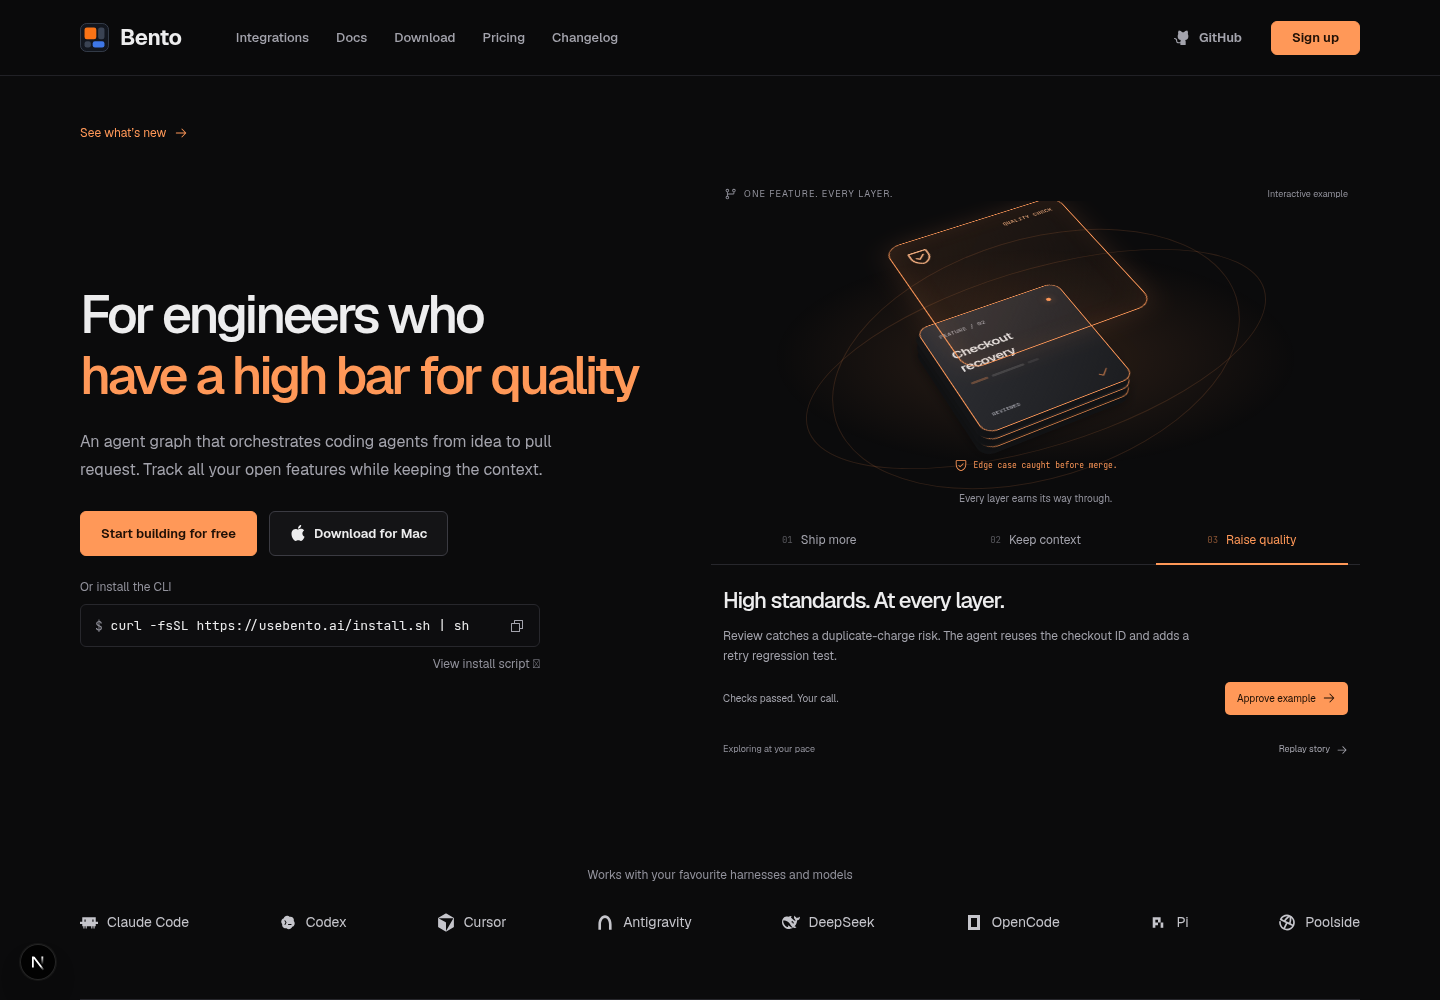
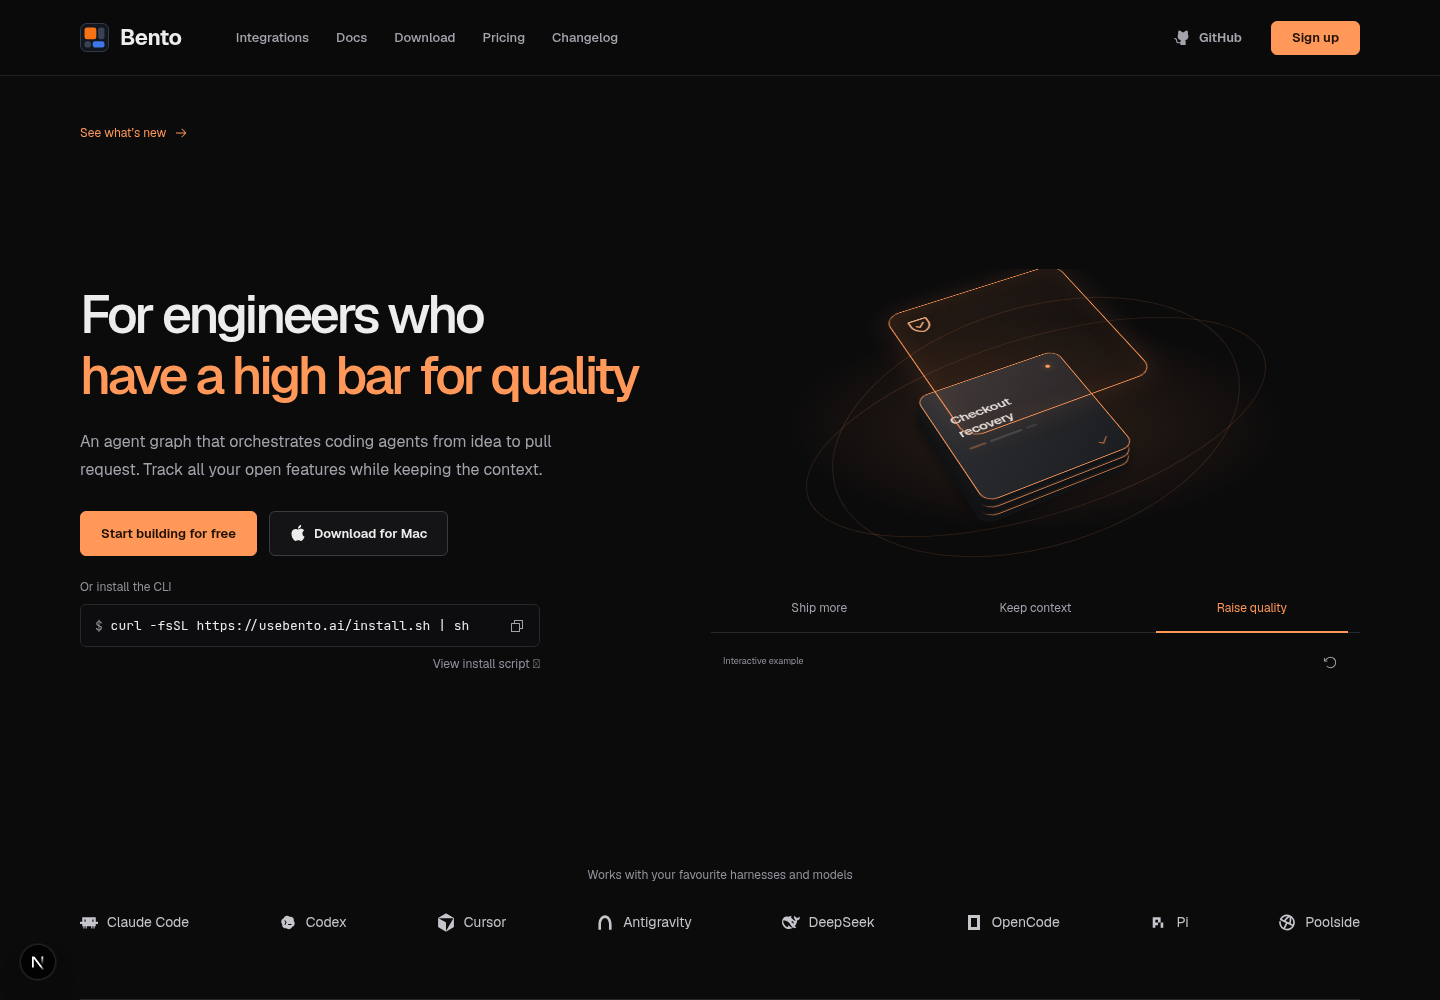
Reduce hero copy so the 3D graphics lead

diff --git a/app/marketing.css b/app/marketing.css
@@ -785,8 +785,6 @@ body:has(.marketing-page) {
 /* A shared 3D sculpture transforms with the headline. */
 @media (min-width: 801px) { .m-hero-heading:has(.hero-story-demo) { padding-block: 24px; } }
 .marketing-page .hero-story-demo { --slab: #1f2024; --slab-edge: #37383e; --slab-ink: #ededee; border: 0; background: transparent; box-shadow: none; overflow: visible; font-size: 12px; }
-.story-topbar { display: flex; align-items: center; justify-content: space-between; gap: 10px; color: var(--text-faint); font-size: 9px; padding-inline: 12px; }
-.story-topbar > span:first-child { display: flex; align-items: center; gap: 7px; letter-spacing: .12em; }
 .feature-stage { position: relative; height: 315px; perspective: 1100px; isolation: isolate; overflow: hidden; }
 .feature-stage::before { content: ""; position: absolute; inset: 12% 6%; background: radial-gradient(ellipse, color-mix(in srgb, var(--brand) 14%, transparent), transparent 65%); }
 .feature-orbit { position: absolute; width: 420px; height: 240px; left: 50%; top: 38px; border: 1px solid color-mix(in srgb, var(--brand) 14%, transparent); border-radius: 50%; transform: translateX(-50%) rotate(-17deg); }
@@ -801,7 +799,7 @@ body:has(.marketing-page) {
 .feature-slab-base { transform: translateZ(-22px); background: #29221d; border-color: #5a4030; }
 .feature-slab-middle { transform: translateZ(-11px); background: #242427; }
 .feature-slab-top { transform: translateZ(0); background: linear-gradient(135deg, #303136, #1c1d20); }
-.feature-card-top, .feature-card-bottom { display: flex; align-items: center; justify-content: space-between; color: #b6b6bf; font: 7px var(--font-jetbrains-mono), monospace; }
+.feature-card-top, .feature-card-bottom { display: flex; align-items: center; justify-content: flex-end; color: #b6b6bf; font: 7px var(--font-jetbrains-mono), monospace; }
 .feature-card-top i { width: 5px; height: 5px; border-radius: 50%; background: #ff9858; box-shadow: 0 0 8px #ff985880; }
 .feature-slab-top strong { display: block; max-width: 100px; margin-top: 16px; font-size: 15px; font-weight: 550; line-height: 1.3; letter-spacing: -.03em; }
 .feature-card-lines { display: flex; gap: 4px; margin-top: 12px; }
@@ -819,57 +817,24 @@ body:has(.marketing-page) {
 .hero-story-demo[data-chapter="2"] .feature-cluster-1 { transform: translate3d(-20px, 10px, 12px); }
 .hero-story-demo[data-chapter="2"] .feature-cluster-1 .feature-slab { border-color: #ff9858; }
 .feature-scan { position: absolute; width: 188px; height: 188px; top: -98px; left: -114px; border: 1px solid #ff9858; border-radius: 17px; display: flex; justify-content: space-between; align-items: flex-start; padding: 13px; color: #ffb786; background: linear-gradient(135deg, #ff98581a, #ff985808); box-shadow: 0 0 30px #ff985822, inset 0 0 30px #ff985811; transform: translateZ(100px); opacity: 0; transition: opacity 600ms; }
-.feature-scan span { font: 7px var(--font-jetbrains-mono), monospace; }
 .hero-story-demo[data-chapter="2"] .feature-scan { opacity: 1; }
-.feature-callout { position: absolute; opacity: 0; transition: opacity 500ms; color: var(--brand); font: 8px var(--font-jetbrains-mono), monospace; }
-.feature-callout-context { right: 7%; top: 72px; display: grid; gap: 41px; }
-.feature-callout-context span { position: relative; }
-.feature-callout-context span::before { content: ""; position: absolute; right: calc(100% + 8px); top: 4px; width: 28px; height: 1px; background: var(--brand); opacity: .4; }
-.feature-callout-quality { left: 50%; bottom: 44px; transform: translateX(-50%); display: flex; align-items: center; gap: 6px; white-space: nowrap; }
-.hero-story-demo[data-chapter="1"] .feature-callout-context, .hero-story-demo[data-chapter="2"] .feature-callout-quality { opacity: 1; }
-.feature-stage-caption { position: absolute; bottom: 10px; width: 100%; text-align: center; color: var(--text-faint); font-size: 10px; }
 @media (prefers-reduced-motion: no-preference) {
   .hero-story-demo[data-chapter="0"] .feature-slab-top { animation: feature-float 3s ease-in-out infinite alternate; }
   .hero-story-demo[data-chapter="0"] .feature-cluster-0 .feature-slab-top { animation-delay: -.8s; }
   .hero-story-demo[data-chapter="0"] .feature-cluster-2 .feature-slab-top { animation-delay: -1.6s; }
-  .hero-story-demo[data-chapter="2"][data-approved="false"] .feature-scan { animation: feature-inspect 2.8s ease-in-out infinite alternate; }
+  .hero-story-demo[data-chapter="2"] .feature-scan { animation: feature-inspect 2.8s ease-in-out infinite alternate; }
   @keyframes feature-float { from { transform: translateZ(0); } to { transform: translateZ(17px); } }
   @keyframes feature-inspect { from { transform: translateZ(92px); } to { transform: translateZ(-30px); } }
 }
-.hero-story-demo[data-approved="true"] .feature-scan { transform: translateZ(-30px); background: #ff98581c; }
 .story-chapters { display: grid; grid-template-columns: repeat(3, minmax(0, 1fr)); border-bottom: 1px solid var(--line); }
 .story-chapters button { position: relative; display: flex; align-items: center; justify-content: center; gap: 8px; padding: 15px 4px; color: var(--text-muted); background: none; border: 0; font: inherit; cursor: pointer; }
-.story-chapters button > span { font: 9px var(--font-jetbrains-mono), monospace; opacity: .5; }
 .story-chapters button[aria-pressed="true"] { color: var(--brand); }
 .story-chapters button[aria-pressed="true"]::after { content: ""; position: absolute; height: 2px; bottom: -1px; left: 12px; right: 12px; background: var(--brand); }
-.story-scenes { display: grid; }
-.story-scene { grid-area: 1 / 1; min-width: 0; padding: 19px 12px 12px; opacity: 0; visibility: hidden; transform: translateY(8px); transition: opacity 350ms ease, transform 350ms ease, visibility 350ms; }
-.story-scene[data-active="true"] { opacity: 1; visibility: visible; transform: none; }
-.story-scene h2 { margin: 0; font-size: 22px; font-weight: 520; letter-spacing: -.045em; }
-.story-scene p { color: var(--text-muted); font-size: 12px; line-height: 1.65; margin: 10px 0 15px; max-width: 470px; }
-.story-shipping { display: flex; align-items: center; gap: 20px; color: var(--brand); font-size: 10px; margin-top: 20px; }
-.story-shipping > span { display: flex; align-items: center; gap: 6px; }
-.story-shipping i { width: 5px; height: 5px; border-radius: 50%; background: var(--brand); }
-.story-artifact-tabs { display: flex; gap: 6px; margin: 12px 0 10px; }
-.story-artifact-tabs button { border: 1px solid transparent; background: transparent; color: var(--text-muted); padding: 7px 9px; font: inherit; font-size: 10px; cursor: pointer; border-radius: 5px; }
-.story-artifact-tabs button[aria-pressed="true"] { background: var(--surface-raised); border-color: var(--line); color: var(--brand); }
-.story-artifact { display: flex; gap: 12px; align-items: baseline; min-height: 45px; }
-.story-artifact code { flex-shrink: 0; color: var(--brand); font-size: 10px; }
-.story-artifact p { font-size: 11px; margin: 0; }
-.story-approval { display: flex; align-items: center; justify-content: space-between; gap: 12px; margin-top: 10px; }
-.story-approval > span { color: var(--text-muted); font-size: 10px; }
-.story-approval button { display: flex; align-items: center; gap: 6px; border: 0; border-radius: 5px; padding: 9px 12px; background: var(--brand); color: var(--on-brand); font: inherit; font-size: 10px; cursor: pointer; }
-.story-approval button:disabled { background: var(--surface-raised); color: var(--brand); cursor: default; }
 .story-footer { display: flex; align-items: center; justify-content: space-between; gap: 10px; padding: 12px; color: var(--text-faint); font-size: 9px; }
-.story-footer button { display: flex; align-items: center; gap: 6px; padding: 4px 0; color: var(--text-muted); background: none; border: 0; font: inherit; cursor: pointer; }
+.story-footer button { display: flex; align-items: center; gap: 6px; padding: 10px; color: var(--text-muted); background: none; border: 0; font: inherit; cursor: pointer; }
 .hero-story-demo button:focus-visible { outline: 2px solid var(--brand); outline-offset: 3px; }
 @media (max-width: 1100px) and (min-width: 801px), (max-width: 520px) {
   .feature-world { transform: scale(.73) rotateX(46deg) rotateZ(-28deg); }
   .feature-stage { height: 270px; }
-  .feature-callout-context { right: 1%; font-size: 6px; gap: 29px; top: 72px; }
-  .feature-callout-context span::before { width: 13px; }
-  .story-scene h2 { font-size: 20px; }
   .story-chapters button { font-size: 10px; gap: 5px; }
-  .story-topbar { font-size: 8px; padding-inline: 0; }
-  .story-topbar > span:first-child { letter-spacing: .04em; }
 }

diff --git a/components/marketing/hero-story-demo.tsx b/components/marketing/hero-story-demo.tsx
@@ -1,57 +1,37 @@
 "use client";
 
-import { useState } from "react";
-import { ArrowRight, Check, FileText, GitBranch, ShieldCheck } from "@phosphor-icons/react";
+import { ArrowCounterClockwise, Check, FileText, GitBranch, ShieldCheck } from "@phosphor-icons/react";
 import { useHeroStory } from "./hero-story";
 
 const chapters = ["Ship more", "Keep context", "Raise quality"];
 const features = ["Billing empty states", "Checkout recovery", "Rate limit API"];
-const artifacts = [
-  { label: "Requirement", file: "plan.md", text: "Recover interrupted checkouts without charging a customer twice." },
-  { label: "Decision", file: "decisions.md", text: "One checkout. One idempotency key." },
-  { label: "Implementation", file: "checkout.ts", text: "Carry the checkout ID into every payment request." },
-];
 
 export function HeroStoryDemo() {
-  const { active, selected, select, replay } = useHeroStory();
-  const [artifact, setArtifact] = useState(0);
-  const [approved, setApproved] = useState(false);
-  return <div className="m-demo hero-visual hero-story-demo" id="product" data-chapter={active} data-approved={approved}>
-    <div className="story-topbar"><span><GitBranch size={14} /> ONE FEATURE. EVERY LAYER.</span><span>Interactive example</span></div>
+  const { active, select, replay } = useHeroStory();
+  return <div className="m-demo hero-visual hero-story-demo" id="product" data-chapter={active}>
+
     <div className="feature-stage" aria-hidden="true">
       <div className="feature-orbit" />
       <div className="feature-world">
         {features.map((feature, index) => <div className={`feature-cluster feature-cluster-${index}`} key={feature}>
-          <div className="feature-slab feature-slab-base"><span>REQUIREMENT</span><FileText size={18} /></div>
-          <div className="feature-slab feature-slab-middle"><span>DECISIONS</span><GitBranch size={18} /></div>
-          <div className="feature-slab feature-slab-top"><div className="feature-card-top"><span>FEATURE / 0{index + 1}</span><i /></div><strong>{feature}</strong><div className="feature-card-lines"><i /><i /><i /></div><div className="feature-card-bottom"><span>{active === 2 ? approved ? "APPROVED" : "REVIEWED" : "READY TO SHIP"}</span><Check size={14} /></div></div>
+          <div className="feature-slab feature-slab-base"><FileText size={18} /></div>
+          <div className="feature-slab feature-slab-middle"><GitBranch size={18} /></div>
+          <div className="feature-slab feature-slab-top"><div className="feature-card-top"><i /></div><strong>{feature}</strong><div className="feature-card-lines"><i /><i /><i /></div><div className="feature-card-bottom"><Check size={14} /></div></div>
         </div>)}
-        <div className="feature-scan"><ShieldCheck size={26} /><span>{approved ? "APPROVED" : "QUALITY CHECK"}</span></div>
+        <div className="feature-scan"><ShieldCheck size={26} /></div>
       </div>
-      <div className="feature-callout feature-callout-context"><span>03 / IMPLEMENTATION</span><span>02 / DECISION</span><span>01 / REQUIREMENT</span></div>
-      <div className="feature-callout feature-callout-quality"><ShieldCheck size={14} />{approved ? "Your judgment. Built in." : "Edge case caught before merge."}</div>
-      <span className="feature-stage-caption">{active === 0 ? "Independent features. Moving together." : active === 1 ? "The context stays with the feature." : "Every layer earns its way through."}</span>
+
     </div>
     <div className="story-chapters" role="group" aria-label="Explore Bento benefits">
-      {chapters.map((label, index) => <button type="button" key={label} aria-pressed={active === index} onClick={() => select(index)}><span>0{index + 1}</span>{label}</button>)}
+      {chapters.map((label, index) => <button type="button" key={label} aria-pressed={active === index} onClick={() => select(index)}>{label}</button>)}
     </div>
-    <div className="story-scenes">
-      <section className="story-scene" data-active={active === 0} aria-hidden={active !== 0} inert={active !== 0} aria-label="Ship more">
-        <h2>Big ideas. Small, shippable pieces.</h2>
-        <p>Each feature moves independently, with its own agents, context, and review. Keep more work in flight.</p>
-        <div className="story-shipping"><span><i /> 3 features in motion</span><span><Check size={13} /> Context included</span></div>
-      </section>
-      <section className="story-scene" data-active={active === 1} aria-hidden={active !== 1} inert={active !== 1} aria-label="Keep context">
-        <h2>Peel back the change.</h2>
-        <div className="story-artifact-tabs" role="group" aria-label="Explore change context">{artifacts.map((item, index) => <button type="button" key={item.file} aria-pressed={artifact === index} onClick={() => { setArtifact(index); select(1); }}>{item.label}</button>)}</div>
-        <div className="story-artifact"><code>{artifacts[artifact].file}</code><p>{artifacts[artifact].text}</p></div>
-      </section>
-      <section className="story-scene" data-active={active === 2} aria-hidden={active !== 2} inert={active !== 2} aria-label="Raise quality">
-        <h2>High standards. At every layer.</h2>
-        <p>Review catches a duplicate-charge risk. The agent reuses the checkout ID and adds a retry regression test.</p>
-        <div className="story-approval"><span role="status">{approved ? "Approved. Ready to merge." : "Checks passed. Your call."}</span><button type="button" disabled={approved} onClick={() => { setApproved(true); select(2); }}>{approved ? <><Check size={14} /> Approved</> : <>Approve example <ArrowRight size={14} /></>}</button></div>
-      </section>
+    <div className="sr-only">
+      {[
+        "Independent feature blocks move in parallel.",
+        "A feature separates into requirement, decision, and implementation layers.",
+        "A review plane checks each layer before the feature ships.",
+      ].map((description, index) => <div className="story-scene" key={description} data-active={active === index} hidden={active !== index} aria-label={chapters[index]}>{description}</div>)}
     </div>
-    <div className="story-footer"><span>{selected ? "Exploring at your pace" : "One connected workflow"}</span><button type="button" onClick={() => { setApproved(false); setArtifact(0); replay(); }}>Replay story <ArrowRight size={12} /></button></div>
+    <div className="story-footer"><span>Interactive example</span><button type="button" aria-label="Replay story" title="Replay story" onClick={replay}><ArrowCounterClockwise size={15} /></button></div>
   </div>;
 }

diff --git a/e2e/marketing.spec.ts b/e2e/marketing.spec.ts
@@ -253,26 +253,20 @@ for (const width of [375, 1440]) {
   });
 }
 
-test("hero story can be explored, approved, and replayed", async ({ page }) => {
+test("hero story can be selected and replayed", async ({ page }) => {
   await page.emulateMedia({ reducedMotion: "no-preference" });
   await page.clock.install();
   await page.goto("/");
-  await page.getByRole("button", { name: /Keep context/ }).click();
+  await page.getByRole("button", { name: "Keep context", exact: true }).click();
   await expect(page.locator('.hero-ending[data-active="true"]')).toHaveText("want context on changes");
-  await page.getByRole("button", { name: "Decision", exact: true }).click();
-  await expect(page.locator(".story-artifact")).toContainText("One checkout. One idempotency key.");
   await page.clock.fastForward(18000);
-  await expect(page.locator('.story-scene[data-active="true"]')).toHaveAttribute("aria-label", "Keep context");
-  await page.getByRole("button", { name: /Raise quality/ }).click();
-  await page.getByRole("button", { name: "Approve example" }).click();
-  await expect(page.locator(".story-approval").getByRole("status")).toHaveText("Approved. Ready to merge.");
-  await expect(page.getByRole("button", { name: "Approved", exact: true })).toBeDisabled();
+  await expect(page.locator(".hero-story-demo")).toHaveAttribute("data-chapter", "1");
+  await page.getByRole("button", { name: "Raise quality", exact: true }).click();
+  await expect(page.locator(".hero-story-demo")).toHaveAttribute("data-chapter", "2");
   await page.getByRole("button", { name: "Replay story" }).click();
   await expect(page.locator('.hero-ending[data-active="true"]')).toHaveText("ship a lot of PRs");
   await page.clock.fastForward(6000);
-  await expect(page.locator('.story-scene[data-active="true"]')).toHaveAttribute("aria-label", "Keep context");
-  await page.getByRole("button", { name: /Raise quality/ }).click();
-  await expect(page.getByRole("button", { name: "Approve example" })).toBeEnabled();
+  await expect(page.locator(".hero-story-demo")).toHaveAttribute("data-chapter", "1");
 });
 
 test("reduced motion keeps the story still and supports keyboard exploration", async ({ page }) => {
@@ -284,7 +278,7 @@ test("reduced motion keeps the story still and supports keyboard exploration", a
   await context.focus();
   await page.keyboard.press("Enter");
   await expect(page.locator('.hero-ending[data-active="true"]')).toHaveText("want context on changes");
-  await expect(page.getByRole("button", { name: "Approve example" })).toBeHidden();
+  await expect(page.locator(".hero-story-demo")).toHaveAttribute("data-chapter", "1");
 });
 
 test("hero starts the synchronized story without interaction", async ({ page }) => {
